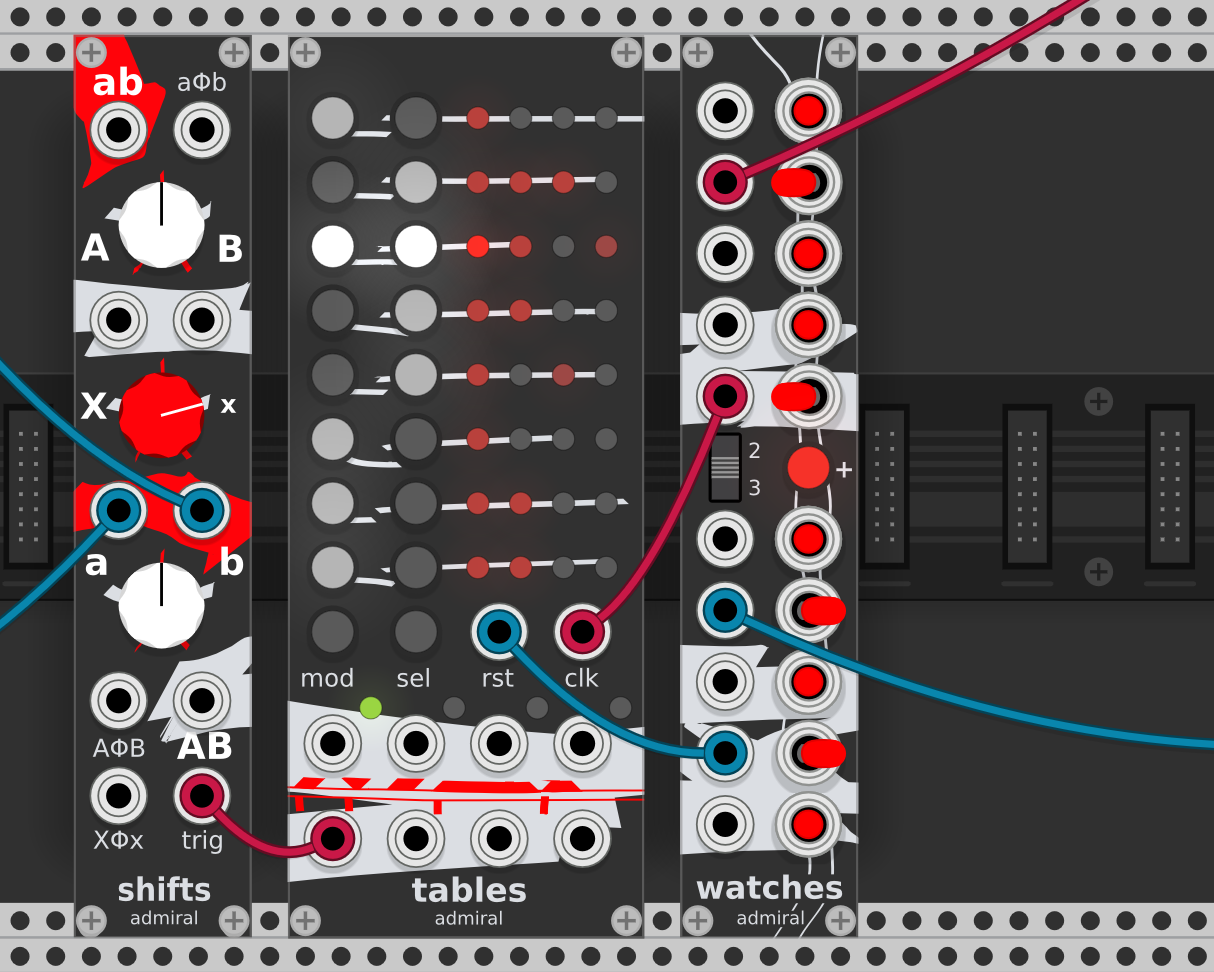
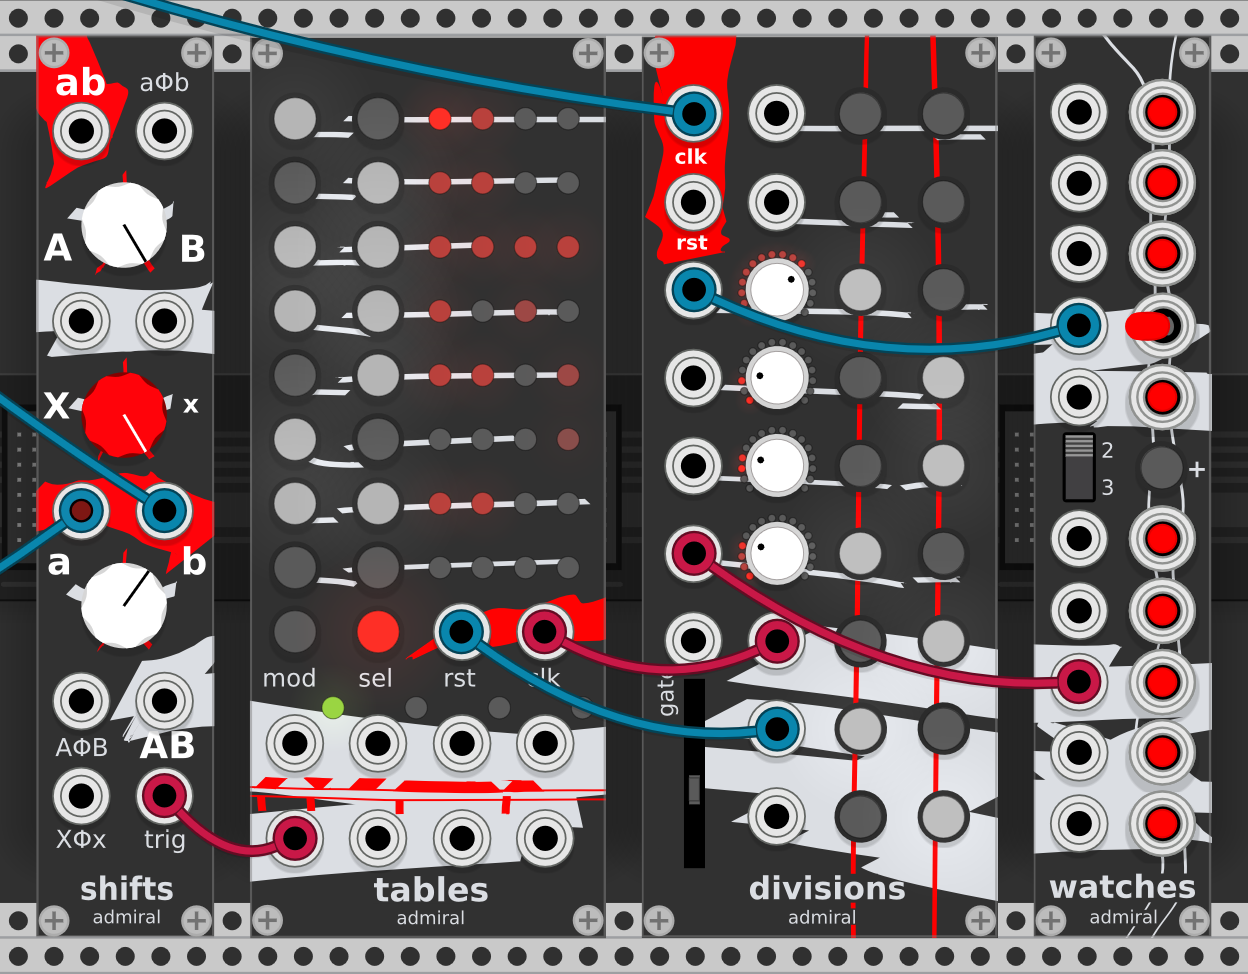
Update README to include Divisions.

diff --git a/README.md b/README.md
@@ -4,36 +4,25 @@ This is a work in progress collection for Rack version 1.
 
 ![modules screenshot](./images/admiral.png)
 
-## Watches - Switched Multiples
 
-![modules screenshot](./images/watches.png)
+## Divisions - Clock Divider and Polyrhythm Generator
 
-Watches is a passive multi-connector similar to a classic multiple.
-What's different is that each socket has a 3-position switch to
-connect the jack to one of three internal buses.
+![divisions screenshot](./images/divisions.png)
 
-All **inputs on a bus are added together and sent to the output
-jacks** connected to that bus.
+Divisions is four clock dividers and two auxiliary inputs that act as
+trigger sources. Each trigger can be routed to one or both of the available
+buses, and the slider controls the gate length.
 
-The top section has three inputs and two outputs, the bottom section
-is the opposite and has two inputs and three outputs.
+The module has three outputs towards the bottom that will be high when their
+selected buses are high.
 
-Normally Watches is separated in a top and bottom section that act
-independently. When the `+` button is red the top three buses are
-connected to their bottom counterparts and the module act as one.
-
-The **neutral switch position** connect jacks to the middle bus.
-The middle bus is special and acts differently according to the `2:3`
-switch:
-  - On `2` only two buses are active, the middle bus mutes.
-  - On `3` the middle bus is independent in each section.
-  - In between the middle bus is shared between the two sections even
-    when `+` is not active and they otherwise act independently.
-
+The four clock dividers can be controlled by CV (0 - 10V) and if a jack is
+connected the knobs will act as attenuators to limit the range of the clock
+division.
 
 ## Shifts - Hybrid Bernoulli Mixer
 
-![modules screenshot](./images/shifts.png)
+![shifts screenshot](./images/shifts.png)
 
 Shifts is a hybrid mixer and Bernoulli gate. Each knob mixes linearly
 between two things as long as the knob is in the top part. When going
@@ -70,7 +59,7 @@ knob is in the Bernoulli zone. This can act like **a mixer** or a
 
 ## Tables - Quad Sequencer
 
-![modules screenshot](./images/tables.png)
+![tables screenshot](./images/tables.png)
 
 Tables is four sequencers in one module. Inspired by the Metropolis and
 the Ryk M-185, Tables focus is more on the rhythm and randomness
@@ -151,3 +140,30 @@ the bottom `mod` button.
 
   - `@ @`: **reverse** iterates over all stages from the bottom to the
   top then cycles starting from the bottom again.
+
+
+## Watches - Switched Multiples
+
+![watches screenshot](./images/watches.png)
+
+Watches is a passive multi-connector similar to a classic multiple.
+What's different is that each socket has a 3-position switch to
+connect the jack to one of three internal buses.
+
+All **inputs on a bus are added together and sent to the output
+jacks** connected to that bus.
+
+The top section has three inputs and two outputs, the bottom section
+is the opposite and has two inputs and three outputs.
+
+Normally Watches is separated in a top and bottom section that act
+independently. When the `+` button is red the top three buses are
+connected to their bottom counterparts and the module act as one.
+
+The **neutral switch position** connect jacks to the middle bus.
+The middle bus is special and acts differently according to the `2:3`
+switch:
+  - On `2` only two buses are active, the middle bus mutes.
+  - On `3` the middle bus is independent in each section.
+  - In between the middle bus is shared between the two sections even
+    when `+` is not active and they otherwise act independently.
